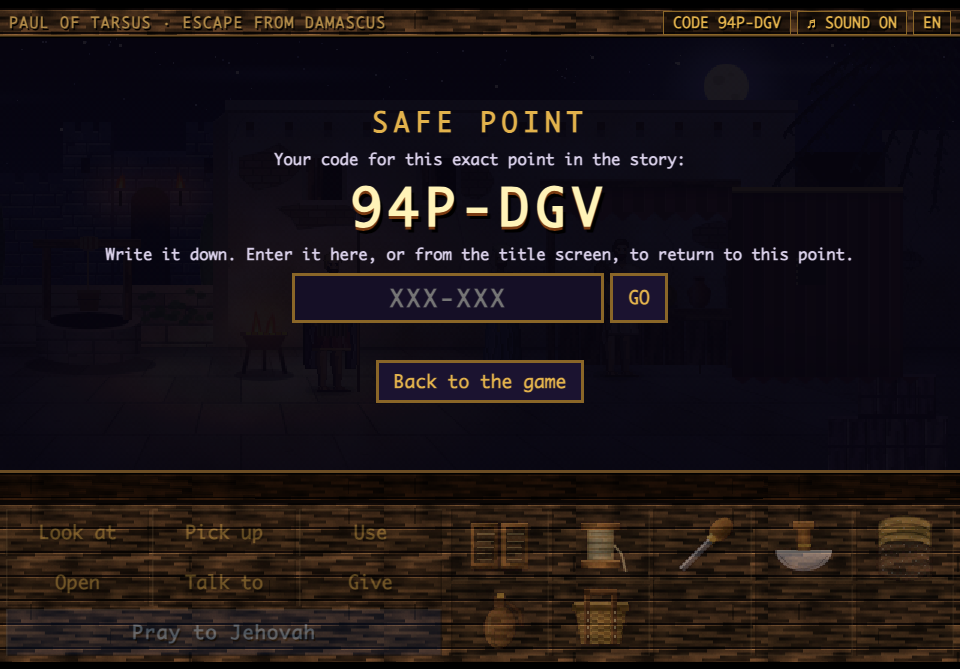
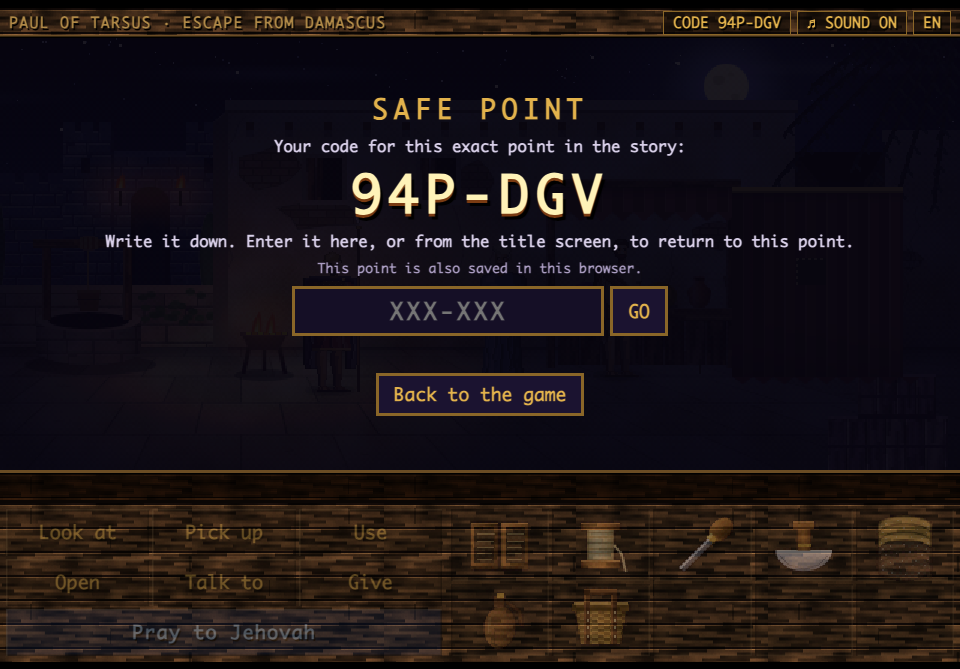
Autosave: keep the safe-point code in the browser, and offer Continue
The game now writes the safe-point code of the current point to localStorage
(paul.save) whenever the code button changes, so a returning player finds
Continue at the head of the title screen. The save is the code itself, so no
new format and every old code keeps working. A finished chapter leaves the next
chapter's first code; a finished game leaves nothing; a damaged entry or a
browser without storage is ignored.

- index.html: autosave(), saved(), resume(); Continue on the title screen; the
  safe-point screen says the browser keeps the point too
- lang/de/main.js: Weiterspielen, and the browser note
- playtest: the runner clears the save on every page (keep=1 excepted); new
  stops `continue` and `resume` reload the game for real; checks in the full run
- README, CONTRIBUTING: how it works, the promise it falls under; screenshots

Changed region(s): [[0.0938, 0.1495, 0.9062, 0.5082], [0.375, 0.5381, 0.625, 0.6278]]

diff --git a/tools/playtest-harness.html b/tools/playtest-harness.html
@@ -65,6 +65,7 @@
   ok(G.lang===lang&&document.documentElement.lang===lang,'the game is in '+LANGS[lang].native+', as the address asks');fitVerbs();
   if(lang==='de')ok([...document.querySelectorAll('#verbs button')].slice(0,7).map(b=>b.textContent).join()==='Betrachte,Nimm,Benutze,Öffne,Rede mit,Gib,Zu Jehova beten'
     &&ov.textContent.includes('PAULUS VON TARSUS')&&$('#code').textContent==='CODE EINGEBEN'&&$('#mute').textContent.includes('TON AN')&&document.title.startsWith('Paulus'),'German on the title screen, in the panel and in the top bar');
+  if(!/[?&]keep=1/.test(location.search))ok(store('paul.save')===null&&!ov.querySelector('[data-cont]')&&ov.querySelector('[data-ch="1"]').classList.contains('go'),'a first visit has nothing to continue: Chapter One leads the list');
   halt('title');
   /* sound: the first press anywhere starts it; a press wakes sound that iOS interrupted; on iPhone and iPad a note says where Silent Mode is */
   {const hushOn=()=>$('#hush').classList.contains('on'),dev=AU.apple;
@@ -95,6 +96,39 @@
     $('#codein').value=c;$('#codego').click();await idle();
     ok(G.room==='street'&&!G.scene&&!ov.classList.contains('on')&&!G.busy&&has('longrope')&&has('patch')&&has('basket')&&!has('pouch'),'code from title starts mid-game: '+c);
     await act(null,"Eliab's door");ok(G.room==='workshop','playable after title code');halt('titlecode')}
+  /* autosave: the game keeps the safe-point code in the browser, and a new visit offers to continue from it. The game is reloaded for real
+     (keep=1 stops the runner clearing the save), and the first half's log is carried over in sessionStorage. */
+  if(stop==='continue'||stop==='resume'){
+    if(!/[?&]keep=1/.test(location.search)){const from=$('#tlog').textContent.length;
+      ov.click();await idle();ok(G.room==='workshop'&&!G.busy,'the intro ends in the workshop');
+      await act('pickup','spool of thread');await act('pickup',"tentmaker's knife");
+      const c=makeCode();ok(store('paul.save')===c&&decode(c).ch===1&&c===codeOf(1,stateBits()),'the point is kept in the browser as it is reached: '+c);
+      $('#code').click();ok(cb.classList.contains('on')&&cb.textContent.includes(T('This point is also saved in this browser.')),'the safe-point screen says the browser keeps it too');$('#codex').click();
+      sessionStorage.setItem('plog',$('#tlog').textContent.slice(from));sessionStorage.setItem('pcode',c);sessionStorage.setItem('pinv',srt());
+      location.href=location.href+'&keep=1';await new Promise(()=>{})}
+    L(sessionStorage.getItem('plog').trimEnd());const c=sessionStorage.getItem('pcode'),inv=sessionStorage.getItem('pinv');
+    const cont=ov.querySelector('[data-cont]');
+    ok(!G.room&&ov.classList.contains('on')&&store('paul.save')===c,'a new visit starts on the title screen, and the save is still there');
+    ok(cont&&ov.querySelector('p.go,p.pick')===cont&&ov.querySelector('p.go')===cont&&!ov.querySelector('[data-ch].go')&&cont.textContent.includes(T('Continue'))&&cont.textContent.includes(T('Chapter One'))&&cont.textContent.includes(T('Escape from Damascus')),
+      'the title offers Continue first, and names the chapter');fitVerbs();{const r=cont.getBoundingClientRect(),v=ov.getBoundingClientRect();if(cont.scrollWidth>cont.clientWidth+1||r.left<v.left||r.right>v.right)tight.add('Continue: '+cont.textContent)}
+    ok(ov.querySelectorAll('[data-ch]').length===3,'the three chapters are still listed');
+    halt('continue');
+    cont.click();await idle();
+    ok(G.ch===1&&G.room==='workshop'&&!G.scene&&!G.busy&&!ov.classList.contains('on')&&makeCode()===c&&srt()===inv&&F.gotThread&&F.gotKnife&&!F.gotCloth,'Continue returns to the kept point, with its inventory and progress');
+    await act('pickup','bolt of goat-hair cloth');ok(has('cloth')&&F.gotCloth&&store('paul.save')===makeCode()&&store('paul.save')!==c,'play goes on from there, and the save follows');
+    $('#code').click();ok($('#codebox .big').textContent===makeCode()&&cb.textContent.includes(T('This point is also saved in this browser.')),'the code on screen is the one the browser keeps');$('#codex').click();
+    /* a new visit: the page starts with no room, then shows the title */
+    const boot=async()=>{G.room=null;G.scene=null;await title()};
+    /* a chapter with a wide code */
+    await startChapter(3);await idle();const w=makeCode();ok(G.ch===3&&G.room==='tarsus'&&decode(w).w!=null&&store('paul.save')===w,'a wide Chapter Three code is kept too: '+w);
+    await boot();ok(ov.querySelector('[data-cont]')&&ov.querySelector('[data-cont]').textContent.includes(T('Chapter Three'))&&ov.querySelector('[data-cont]').textContent.includes(T('Called to Antioch')),'Continue names Chapter Three');
+    ov.querySelector('[data-cont]').click();await idle();ok(G.ch===3&&G.room==='tarsus'&&PC()===P&&makeCode()===w&&!ov.classList.contains('on')&&!G.busy,'and returns to it');
+    /* a chapter finished leaves the next chapter's first code; a damaged or foreign entry is ignored */
+    autosave(codeOf(2,0));await boot();ok(ov.querySelector('[data-cont]').textContent.includes(T('Chapter Two')),'a finished chapter leaves Continue at the next one');
+    ov.querySelector('[data-cont]').click();await idle();ok(G.ch===2&&G.room==='jerusalem'&&!G.busy&&makeCode()===codeOf(2,0),'Continue starts Chapter Two');
+    for(const bad of['garbage','XXX-XXX',w.slice(0,-1)+(w.slice(-1)==='A'?'B':'A'),'']){store('paul.save',bad);await boot();ok(!ov.querySelector('[data-cont]')&&ov.querySelector('[data-ch="1"]').classList.contains('go'),'a damaged save is not offered: '+JSON.stringify(bad))}
+    const lost=localStorage.setItem;Storage.prototype.setItem=()=>{throw new Error('full')};autosave('x');ok(G.saved===false,'a browser that will not store anything is no problem');Storage.prototype.setItem=lost;
+    fitVerbs();ok(!tight.size,'no text overflows its box'+(tight.size?'. TOO LONG: '+[...tight].slice(0,10).join(' | '):''));L('DONE');throw 'halt'}
   if(!C3){
   ov.click();await idle();ok(G.room==='workshop'&&!G.busy,'intro ends in workshop');
   ok(!SHARED.map&&!SHARED.tablets,'the map and the tablets are not loaded until they are needed');
@@ -140,6 +174,7 @@
   await use('strips','rope');ok(has('longrope')&&!has('rope'),'rope lengthened');
   const c1=makeCode(),b1=stateBits(),inv1=srt();
   ok(decode(c1).b===b1&&decode(c1).ch===1&&/^[0-9A-Z]{3}-[0-9A-Z]{3}$/.test(c1)&&$('#code').textContent===T('CODE {code}',{code:c1}),'code round-trips: '+c1);
+  ok(store('paul.save')===c1,'the browser keeps the same code: '+c1);
   ok(decode('AAAAAA')===null&&decode('')===null&&decode(c1.slice(0,6)+(c1[6]==='A'?'B':'A'))===null,'bad codes rejected');
   ok(decode(c1.toLowerCase().replace('-',' ')).b===b1,'lower case and spaces accepted');
   await actor(null,ACT.eliab);ok(nq()===6&&hasQ('basket loops are frayed'),'eliab has 5 questions, and one about the frayed basket');await choose(3);await choose(-1);
@@ -166,7 +201,7 @@
   await useOn('awl','torn awning');ok(F.awning&&has('straps')&&!has('patch'),'awning mended, straps received');
   await use('straps','basket');ok(has('strongbasket'),'basket reinforced');
   const c2=makeCode(),inv2=srt();
-  $('#code').click();ok(cb.classList.contains('on')&&$('#codebox .big').textContent===c2,'safe point screen shows '+c2);
+  $('#code').click();ok(cb.classList.contains('on')&&$('#codebox .big').textContent===c2&&cb.textContent.includes(T('This point is also saved in this browser.')),'safe point screen shows '+c2+', and that the browser keeps it');
   halt('code');
   $('#codein').value='ZZZ-ZZ2';$('#codego').click();ok(cb.classList.contains('on')&&G.room==='street','invalid code refused');
   $('#codein').value=c1;$('#codego').click();await idle();
@@ -194,6 +229,7 @@
   n=0;while(!ov.classList.contains('end')&&n++<4000)await wait(50);
   ok(ov.classList.contains('end'),'chapter one complete screen shown');
   ok(ov.textContent.includes(T('Chapter Two code: {code}',{code:codeOf(2,0)})),'chapter one ends with a chapter two code');
+  ok(store('paul.save')===codeOf(2,0),'and the browser keeps that code: the next visit continues with Chapter Two');
   {const M=SHARED.map;ok(M&&G.scene===M.draw&&M.state.legs.length===1&&M.state.legs[0].k===1&&M.state.seen.has('jerusalem'),'chapter one ends on the map: the way from Damascus to Jerusalem has drawn itself')}
   halt('map1',()=>{ov.className=''});
   halt('final');
@@ -261,6 +297,7 @@
   n=0;while(!ov.textContent.includes(T('A Friend in Jerusalem'))&&n++<4000)await wait(50);
   ok(ov.classList.contains('end')&&ov.textContent.includes(T('A Friend in Jerusalem')),'chapter two complete screen shown');
   ok(ov.textContent.includes(T('Chapter Three code: {code}',{code:codeOf(3,0)})),'chapter two ends with a chapter three code');
+  ok(store('paul.save')===codeOf(3,0),'and the browser keeps it');
   {const L=SHARED.map.state.legs;ok(G.scene===SHARED.map.draw&&L.length===3&&L.every(l=>l.k===1)&&SHARED.map.state.seen.has('tarsus'),'chapter two ends on the map: Jerusalem, Caesarea, and by sea to Tarsus')}
   halt('map2',()=>{ov.className=''});
   halt('final2');await wait(1700)}
@@ -361,6 +398,7 @@
   verb('use');item('bags');view(...hs('donkey'));
   n=0;while(!(ov.classList.contains('end')&&ov.textContent.includes(T('Called to Antioch')))&&n++<4000)await wait(50);
   ok(ov.classList.contains('end')&&ov.textContent.includes(T('Called to Antioch')),'chapter three complete screen shown');
+  ok(store('paul.save')===null,'a finished game keeps no save');
   {const M=SHARED.map,L=M.state.legs;ok(G.scene===M.draw&&L.length===4&&L.every(l=>l.k===1)&&M.state.seen.has('antioch'),'chapter three ends on the map: the whole road, from Damascus to Antioch');
     const ccw=(a,b,c)=>(c[1]-a[1])*(b[0]-a[0])-(b[1]-a[1])*(c[0]-a[0]),inter=(p,q,r,t)=>ccw(p,r,t)*ccw(q,r,t)<0&&ccw(p,q,r)*ccw(p,q,t)<0;let n=0;
     for(let x=0;x<L.length;x++)for(let y=x+1;y<L.length;y++)for(let i=1;i<L[x].dots.length;i++)for(let j=1;j<L[y].dots.length;j++)if(inter(L[x].dots[i-1],L[x].dots[i],L[y].dots[j-1],L[y].dots[j]))n++;

diff --git a/index.html b/index.html
@@ -101,6 +101,7 @@ body{display:flex;align-items:center;justify-content:center}
   padding:calc(var(--s)*2px) calc(var(--s)*5px);cursor:pointer}
 #codebox button:hover{color:var(--hi);border-color:var(--gold)}
 #codebox .small{font-size:calc(var(--s)*4.8px);color:#f0a090;min-height:1.3em}
+#codebox .kept{font-size:calc(var(--s)*4.4px);color:#a99cc0}
 </style>
 </head>
 <body>
@@ -930,7 +931,7 @@ function need(name){if(SHARED[name])return Promise.resolve(SHARED[name]);
 const LANGLOAD={};
 function langFile(lang,part){const d=LANGS[lang]&&LANGS[lang].dir,k=lang+'/'+part;if(!d)return Promise.resolve();
   return LANGLOAD[k]||(LANGLOAD[k]=loadScript(d+(part==='main'?'main':'chapter'+part)+'.js',()=>DICT[lang]&&DICT[lang][part]).catch(e=>{console.error(e);LANGLOAD[k]=null}))}
-const store=(k,v)=>{try{if(v===undefined)return localStorage.getItem(k);localStorage.setItem(k,v)}catch(e){return null}};
+const store=(k,v)=>{try{if(v===undefined)return localStorage.getItem(k);if(v===null)localStorage.removeItem(k);else localStorage.setItem(k,v)}catch(e){return null}};
 /* the language to start in: ?lang=xx in the address, else the player's last choice, else the browser's language, else English */
 function firstLang(){const q=(location.search.match(/[?&]lang=([a-z]+)/)||[])[1],n=(navigator.language||'').slice(0,2).toLowerCase();
   return[q,store('paul.lang'),n].find(l=>l&&LANGS[l])||'en'}
@@ -956,16 +957,17 @@ function loadFail(e){console.error(e);ov.onclick=()=>location.reload();
 async function startChapter(n){ov.onclick=null;try{await loadLevel(n)}catch(e){return loadFail(e)}return CHAP[n].start()}
 async function title(){lock(true);await setLang(firstLang());try{await loadLevel(TITLE.level)}catch(e){return loadFail(e)}
   setChapter(TITLE.level);G.scene=CHAP[TITLE.level].scenes[TITLE.scene];G.end={};AU.mood=TITLE.mood;AU.amb=TITLE.amb;
-  overlay('on',()=>{ov.innerHTML='<h1>'+T('PAUL OF TARSUS')+'</h1><h2>'+T('THE ROMAN ROAD RUNNER')+'</h2>'+
+  overlay('on',()=>{const sv=saved();ov.innerHTML='<h1>'+T('PAUL OF TARSUS')+'</h1><h2>'+T('THE ROMAN ROAD RUNNER')+'</h2>'+
     '<p class="small">'+T('A point-and-click adventure based on the book of Acts')+'</p>'+
-    Object.keys(CHAP).map((n,i)=>`<p class="${i?'pick':'go'}" data-ch="${n}">&#9656; ${T(CHAP[n].label)} &middot; ${T(CHAP[n].title)}</p>`).join('')+
+    (sv?'<p class="go" data-cont="1">&#9656; '+T('Continue')+' &middot; '+T(CHAP[sv.ch].label)+' &middot; '+T(CHAP[sv.ch].title)+'</p>':'')+
+    Object.keys(CHAP).map((n,i)=>`<p class="${i||sv?'pick':'go'}" data-ch="${n}">&#9656; ${T(CHAP[n].label)} &middot; ${T(CHAP[n].title)}</p>`).join('')+
     '<p class="small">'+T('Click a chapter to begin. Returning? Use ENTER CODE, top right.')+'</p>'+
     (Object.keys(LANGS).length>1?'<p class="small langs">'+Object.keys(LANGS).map(l=>`<span data-lang="${l}"${l===G.lang?' class="on"':''}>${LANGS[l].native}</span>`).join(' &middot; ')+'</p>':'')});
   ov.onclick=e=>{const d=e.target.dataset||{};if(d.lang){SFX.click();return setLang(d.lang,1)}
-    if(e.target.closest('.langs'))return;startChapter(+d.ch||1)};codeBtn();G.ready=1}
+    if(e.target.closest('.langs'))return;if(d.cont)return resume();startChapter(+d.ch||1)};codeBtn();G.ready=1}
 /* endScreen: a chapter's closing screen. o: title; text; based (its passages, and that the dialogue is imagined); extra (more lines for
    the score, such as kindness shown); go (what a click does next); code ([line, code] for the next chapter); time (show the time played). */
-function endScreen(o){const s=Math.round((performance.now()-G.started)/1000);SFX.win();
+function endScreen(o){const s=Math.round((performance.now()-G.started)/1000);SFX.win();autosave(o.code?o.code[1]:null);
   overlay('on end',()=>{ov.innerHTML='<h2>'+T('CHAPTER COMPLETE')+'</h2><h1 style="font-size:calc(var(--s)*12px)">'+esc(T(o.title))+'</h1><p>'+esc(T(o.text))+'</p><p>'+
     [o.time&&T('Time: {m}m {s}s',{m:Math.floor(s/60),s:s%60}),T('Prayers for wisdom: {n}',{n:G.prays}),...(o.extra||[]).map(x=>T(x))].filter(Boolean).map(esc).join(' &middot; ')+'</p>'+
     '<p class="small">'+esc(T(o.based))+'</p><p class="go">'+esc(T(o.go))+'</p>'+(o.code?'<p class="small">'+esc(T(o.code[0],{code:o.code[1]}))+'</p>':'')})}
@@ -1027,7 +1029,20 @@ function applyState(s){const c=CHAP[s.ch],u=s.w!=null?unpackWide(c,s.w):null;if(
     const a=ACT[u.pc];if(a!==P){G.invs.paul=G.inv;G.pc=a;G.inv=G.invs[a.id];viewOf(a)}}
   if(!G.started)G.started=performance.now();
   G.busy=false;lock(false);swapBtn();syncVerbs();drawInv();status();codeBtn();return true}
-function codeBtn(){$('#code').textContent=G.room&&!G.scene?T('CODE {code}',{code:makeCode()}):T('ENTER CODE')}
+/* ============ AUTOSAVE: the safe-point code of the current point, kept in this browser as well ============ */
+/* The code is the save: it is already a complete, checked, language-free record of the story's state, and every code that has ever worked
+   keeps working, so the browser keeps the same string the top bar shows. It is written whenever that string is shown (codeBtn), so it
+   always names a point the player could have written down; during a cutscene, on the map and on the title screen it is left alone. */
+const SAVE='paul.save';
+function autosave(code){try{if(code==null)localStorage.removeItem(SAVE);else localStorage.setItem(SAVE,code);return G.saved=code!=null}catch(e){return G.saved=false}}
+/* saved: the kept point, if it is still a valid code for a chapter we have ({ch, code}), else nothing */
+function saved(){const code=store(SAVE),b=decode(code);return b&&CHAP[b.ch]?{ch:b.ch,code}:null}
+/* resume: the title screen's Continue. It does what typing the kept code does; one that cannot be restored is dropped. */
+async function resume(){const sv=saved();audioInit();
+  if(sv){const b=decode(sv.code);try{await loadLevel(b.ch)}catch(e){return loadFail(e)}
+    if((b.w==null||unpackWide(CHAP[b.ch],b.w))&&applyState(b)){SFX.good();return}}
+  autosave(null);SFX.nope();ov.draw()}
+function codeBtn(){const on=G.room&&!G.scene,code=on&&makeCode();if(on)autosave(code);$('#code').textContent=on?T('CODE {code}',{code}):T('ENTER CODE')}
 function closeCode(){cb.classList.remove('on');G.busy=cb.was;if(!G.busy)lock(false);status()}
 const BADCODE='That code is not valid. Please check each letter and number.';
 async function tryCode(){const b=decode($('#codein').value);
@@ -1041,7 +1056,8 @@ function openCode(){audioInit();if(cb.classList.contains('on'))return closeCode(
   /* drawn again, with what has been typed so far, when the language changes */
   cb.draw=()=>{const typed=$('#codein')?$('#codein').value:'';
     cb.innerHTML=(can?'<h2>'+T('SAFE POINT')+'</h2><p>'+T('Your code for this exact point in the story:')+'</p><div class="big">'+makeCode()+
-        '</div><p>'+T('Write it down. Enter it here, or from the title screen, to return to this point.')+'</p>'
+        '</div><p>'+T('Write it down. Enter it here, or from the title screen, to return to this point.')+'</p>'+
+        (G.saved?'<p class="kept">'+T('This point is also saved in this browser.')+'</p>':'')
       :'<h2>'+T('ENTER CODE')+'</h2><p>'+T('Type a code from an earlier game to continue from that point.')+'</p>')+
       '<div class="row"><input id="codein" maxlength="16" autocomplete="off" autocapitalize="characters" spellcheck="false" placeholder="XXX-XXX">'+
       '<button id="codego" type="button">'+T('GO')+'</button></div><p id="codemsg" class="small">&nbsp;</p>'+

diff --git a/lang/de/main.js b/lang/de/main.js
@@ -71,6 +71,7 @@ TEXTS('de','main',{
   "THE ROMAN ROAD RUNNER":"AUF ROMS STRASSEN",
   "A point-and-click adventure based on the book of Acts":"Ein Point-and-Click-Abenteuer nach dem Bibelbuch Apostelgeschichte",
   "Click a chapter to begin. Returning? Use ENTER CODE, top right.":"Klicke auf ein Kapitel, um zu beginnen. Schon einmal gespielt? Oben rechts auf CODE EINGEBEN klicken.",
+  "Continue":"Weiterspielen",
   "CHAPTER COMPLETE":"KAPITEL ABGESCHLOSSEN",
   "Time: {m}m {s}s":"Zeit: {m} Min. {s} Sek.",
   "Prayers for wisdom: {n}":"Gebete um Weisheit: {n}",
@@ -80,6 +81,7 @@ TEXTS('de','main',{
   "SAFE POINT":"SPEICHERPUNKT",
   "Your code for this exact point in the story:":"Dein Code für genau diese Stelle der Geschichte:",
   "Write it down. Enter it here, or from the title screen, to return to this point.":"Schreib ihn auf. Gib ihn hier oder auf dem Titelbildschirm ein, um an diese Stelle zurückzukehren.",
+  "This point is also saved in this browser.":"Diese Stelle wird außerdem in diesem Browser gespeichert.",
   "Type a code from an earlier game to continue from that point.":"Gib einen Code aus einem früheren Spiel ein, um an dieser Stelle weiterzuspielen.",
   "GO":"LOS",
   "Back to the game":"Zurück zum Spiel",

diff --git a/README.md b/README.md
@@ -10,7 +10,7 @@ There are three chapters so far, in English and German. The game is a small engi
 
 **Play online: https://marcuscalidus.github.io/paul-of-tarsus/**
 
-Or download this repository and open `index.html` in any current desktop browser (keep the `levels` folder next to it). Pick a chapter on the title screen. Nothing to install or build.
+Or download this repository and open `index.html` in any current desktop browser (keep the `levels` folder next to it). Pick a chapter on the title screen; the game saves your place by itself, so next time the title screen offers to continue. Nothing to install or build.
 
 The online version is served by GitHub Pages straight from the root of the `main` branch.
 
@@ -166,7 +166,11 @@ The blue button is the hint system. Paul pauses, bows his head and prays for wis
 
 The top bar always shows a short code for exactly where you are: six characters in Chapter One, and the same with a leading `2-` in Chapter Two. Chapter Three codes are nine characters (`3-XXX-XXX-XXX`), because they also remember which man you are playing, where each of them stands and who carries what; six-character Chapter Three codes from before still work. Write it down, and enter it later with **ENTER CODE** on the title screen (or the code button during play) to return to the same room with the same inventory and progress. Any moment outside a cutscene is a safe point.
 
+The game also keeps that same point in your browser, every time it changes. Come back in the same browser and the title screen leads with **Continue**, naming the chapter, which returns you to the room, inventory and progress you left. A finished chapter leaves **Continue** at the next one, and a finished game leaves nothing. The code is still what carries your place to another browser or device, and what you write down; the browser's copy is only as lasting as the browser's site data, so clearing it, a private window or another browser starts without it.
+
 ![Safe-point code](docs/screenshots/code.png)
+
+![Returning: the title screen offers to continue](docs/screenshots/continue.png)
 
 ## About the content
 
@@ -227,6 +231,8 @@ places:{jerusalem:{room:'jerusalem',x:40,y:120,dir:1},caesarea:{room:'harbor',x:
 
 and gives the exits that lead out of town `exit:travel`. `travel()` opens the map with those places as dots; hovering lights a name, a click draws the way there and enters that room, and Esc or a right-click stays. A place that is not in `PLACES` yet is added there with its coordinates. A hub chapter will have more than three rooms, so it gets wide codes automatically; if it may grow, it reserves room with `codeBits` from the start.
 
+**Autosave.** The save is the safe-point code, not a second format: `codeBtn()` writes the string it shows to `localStorage` under `paul.save`, whenever the player is in a room outside a cutscene (so it always names a point they could have written down). The title screen reads it back with `saved()` and, if it still decodes, leads with **Continue**, which `resume()` restores the way typing the code does. `endScreen()` replaces the save with the next chapter's first code (or clears it, after the last chapter). A browser that refuses storage is fine: the game plays on and the code screen does not claim a save. Because the save is a code, every promise below holds for it too, and nothing else may go into it without a format the decoder can tell apart.
+
 **Safe-point codes.** A chapter whose state fits in 19 flags and three rooms, with Paul alone, gets the original six-character codes. Any other chapter (a party, more flags, more rooms) gets wide codes of 9, 12 or more characters, always a multiple of three, so the decoder tells the two apart by length. A wide code packs, from the lowest bit: the flags, each member's room, the member being played, and for each item in `share` the member who carries it; then it is masked and checked with 9 bits salted by the chapter, like the short codes. Every field has a fixed width, so a chapter can grow without breaking its codes: room for 19 flags and two bits per room (four rooms), unless the chapter needs more or reserves more with `codeBits:{flags, rooms, share}`. Never reorder a chapter's `flags`, `rooms` or `share`; only append, within those widths.
 
 Edit a file and reload.
@@ -237,7 +243,7 @@ Edit a file and reload.
 node tools/playtest.mjs
 ```
 
-It plays the game once in English and once more in every other language under `lang/`. Pass stop names to save screenshots to `tools/out/` instead, for example `node tools/playtest.mjs title workshop harbor`; put a language in front of a stop to take it in that language: `node tools/playtest.mjs de:title de:tablets`. The stop names are defined in `tools/playtest-harness.html`; Chapter Three stops such as `tarsus`, `court` and `antioch` start that chapter directly.
+It plays the game once in English and once more in every other language under `lang/`, each followed by `resume`, which reloads the game to check that the autosave brings the player back (`continue` stops at the title screen that offers it). Pass stop names to save screenshots to `tools/out/` instead, for example `node tools/playtest.mjs title workshop harbor`; put a language in front of a stop to take it in that language: `node tools/playtest.mjs de:title de:tablets`. The stop names are defined in `tools/playtest-harness.html`; Chapter Three stops such as `tarsus`, `court` and `antioch` start that chapter directly.
 
 ## Contributing
 

diff --git a/CONTRIBUTING.md b/CONTRIBUTING.md
@@ -55,7 +55,7 @@ Paul of Tarsus is a Bible-based adventure meant to be suitable for Jehovah's Wit
 
 - `index.html` is the engine. Each chapter is one file, `levels/chapterN.js`, loaded only when that chapter is played. It holds the chapter's music, artwork, cast, items, rooms, dialog, cutscenes and prayer hints. A new chapter adds its file and one line to the `CHAP` manifest. Anything shared between chapters goes in its own file, also loaded on demand, not in a chapter file or the engine.
 - The game must keep running when `index.html` is opened straight from disk: no build step, no server and no dependencies.
-- Safe-point codes are a promise to players. Every code that works today must keep working. If a change needs more state, add a new code format that the decoder can tell apart from the old one. Never reorder a chapter's `flags`, `rooms` or `share`; only append to them, within the widths the code format reserves.
+- Safe-point codes are a promise to players. Every code that works today must keep working. The browser's autosave (`localStorage`, key `paul.save`) is that same code and nothing else, so the promise covers it: never keep other state there without a format the decoder can tell apart from the code. If a change needs more state, add a new code format that the decoder can tell apart from the old one. Never reorder a chapter's `flags`, `rooms` or `share`; only append to them, within the widths the code format reserves.
 
 ## 6. Testing and documentation
 
